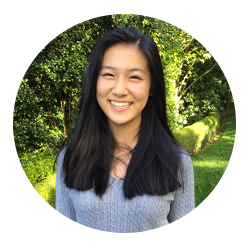
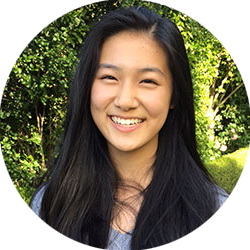
fix celena img size

diff --git a/creatorsPage.html b/creatorsPage.html
@@ -22,7 +22,7 @@
 		<table class="creators">
 			<tr class="creators">
 				<td class="creators"><img class="creator" src="creatorMaggie.png"/></td>
-				<td class="creators"><img class="creator" src="creatorCelena.png"/></td> 
+				<td class="creators"><img class="creator" src="creatorCelena.png"/></td>
 		  	</tr>
 			<tr class="creators">
 				<td class="creators">
@@ -34,16 +34,16 @@
 				<td class="creators">
 					<h2 id="creatorTitle">Celena Chang</h2>
 					<p class="creatorDescription">
-						I'm Celena, and I'm a senior at Lowell High School in San Francisco, California. I have been interested in computer science since I was a sophomore in high school. Besides coding, I also love to sketch, bike, and watch YouTube videos during my freetime. I aspire to be a software developer in the future and the Girls Who Code Summer Immersion Program has gotten me more excited and confident about entering the computer science field. On a side note, my favorite boba shop and the one I go to most often is BB Tea Station in the Sunset District. Although there are many milk tea flavors, I always tend to order the original from any milk tea shop.   
+						I'm Celena, and I'm a senior at Lowell High School in San Francisco, California. I have been interested in computer science since I was a sophomore in high school. Besides coding, I also love to sketch, bike, and watch YouTube videos during my freetime. I aspire to be a software developer in the future and the Girls Who Code Summer Immersion Program has gotten me more excited and confident about entering the computer science field. On a side note, my favorite boba shop and the one I go to most often is BB Tea Station in the Sunset District. Although there are many milk tea flavors, I always tend to order the original from any milk tea shop.
 					</p>
-				</td> 
+				</td>
 		  	</tr>
 		</table>
 	</div>
 </body>
 
 <footer>
-	<p style="font-family: Montserrat;font-size: 15px;padding-top:100px">Copyright 2015, Boba Buddies</p>
+	<p style="font-family: Montserrat;font-size: 15px;padding-top:100px">Copyright 2017, Boba Buddies</p>
 	<img src="websiteBoba.png" width="25%"><img src="websiteBoba.png" width="25%"><img src="websiteBoba.png" width="25%"><img src="websiteBoba.png" width="25%">
 	<div id="whiteBox"></div>
 </footer>

diff --git a/charactersPage.html b/charactersPage.html
@@ -22,7 +22,7 @@
 		<table class="characters">
 			<tr class="characters">
 				<td class="characters"><img class="characters" src="characters/bobagirl1-1.png" style="padding-top:30px"/></td>
-				<td class="characters"><p class="characters">Jasmine</p></td>	
+				<td class="characters"><p class="characters">Jasmine</p></td>
 			</tr>
 			<tr class="characters">
 				<td class="characters"><img class="characters" src="characters/bobaboy1-1.png"/></td>
@@ -41,7 +41,7 @@
 </body>
 
 <footer>
-	<p style="font-family: Montserrat;font-size: 15px;padding-top:150px">Copyright 2015, Boba Buddies</p>
+	<p style="font-family: Montserrat;font-size: 15px;padding-top:150px">Copyright 2017, Boba Buddies</p>
 	<img src="websiteBoba.png" width="25%"><img src="websiteBoba.png" width="25%"><img src="websiteBoba.png" width="25%"><img src="websiteBoba.png" width="25%">
 	<div id="whiteBox"></div>
 </footer>

diff --git a/bobaBuddiesWebsite.css b/bobaBuddiesWebsite.css
@@ -1125,7 +1125,7 @@ a:hover{
 body {
 	/*background-color: #E3D69A;*/ /*milk tea color*/
 	background-color: white;
-	
+
 }
 
 #banner {
@@ -1180,7 +1180,7 @@ h2.pageHeading {
 	font-size: 35px;
 	margin: auto;
 	padding:10px;
-	
+
 }
 
 /* HOME PAGE ONLY */
@@ -1249,10 +1249,10 @@ p.pageFont {
 
 img.creator {
     /*display: inline-block;*/
-    margin-left: auto;
-    margin-right: auto;
-    padding: 25px;
-    padding-bottom: 0px;
+  margin-left: auto;
+  margin-right: auto;
+  padding: 25px;
+  padding-bottom: 0px;
 	height: 350px;
 	width: 350px;
 }

diff --git a/contactPage.html b/contactPage.html
@@ -33,7 +33,7 @@
 </body>
 
 <footer>
-	<p style="font-family: Montserrat;font-size: 15px;padding-top: 100px;">Copyright 2015, Boba Buddies</p>
+	<p style="font-family: Montserrat;font-size: 15px;padding-top: 100px;">Copyright 2017, Boba Buddies</p>
 	<img src="websiteBoba.png" width="25%"><img src="websiteBoba.png" width="25%"><img src="websiteBoba.png" width="25%"><img src="websiteBoba.png" width="25%">
 	<div id="whiteBox"></div>
 </footer>
